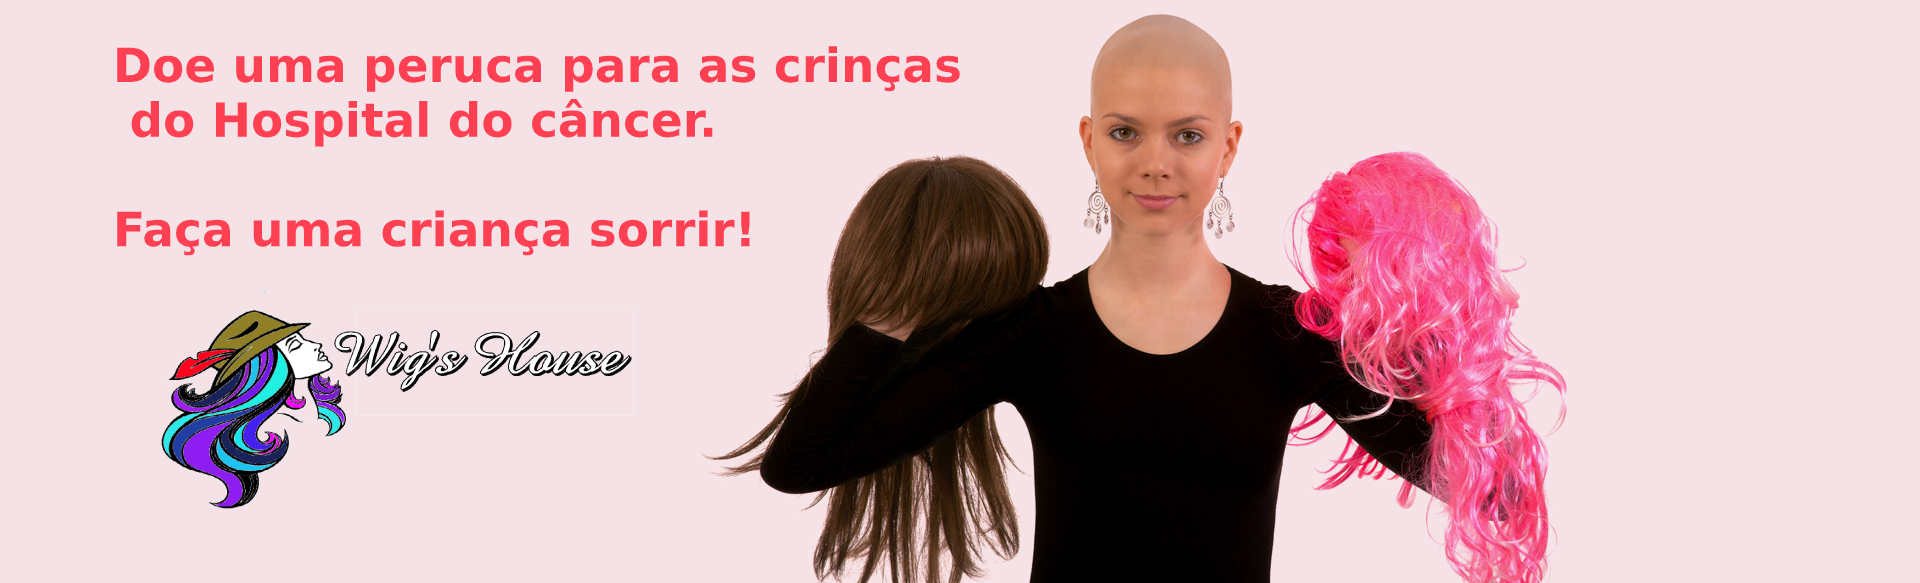
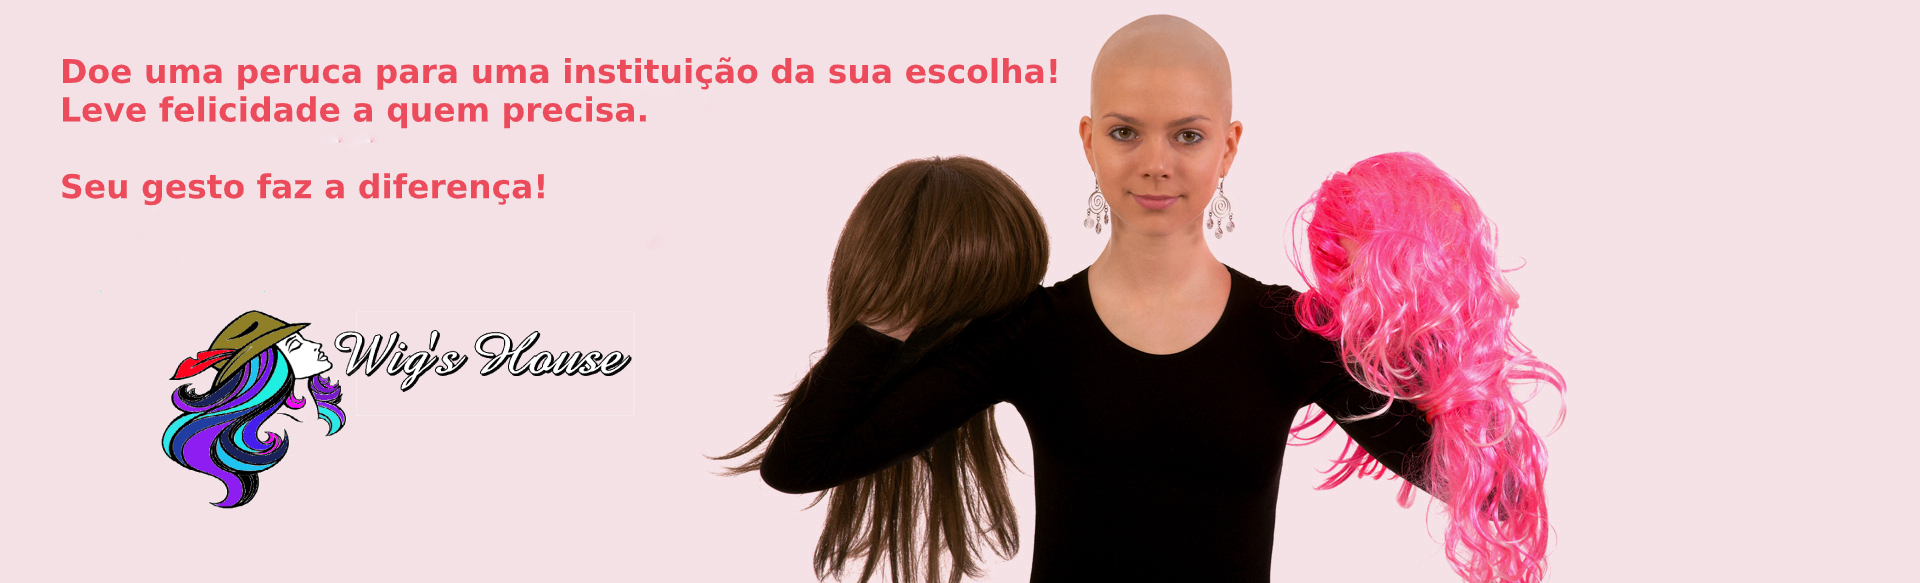
ajustes finais

Changed region(s): [[0.0312, 0.0617, 0.5625, 0.247], [0.0312, 0.2779, 0.4062, 0.4322]]

diff --git a/src/app/components/home/institucional/institucional.component.html b/src/app/components/home/institucional/institucional.component.html
@@ -2,11 +2,11 @@
     <div class="row jumbotron">
         <div id="text" class="col-md-4 col-xs-12 mb-2">
             <strong>Doe uma peruca:</strong><br>
-            <em class="mb-2">Seu gesto pode fazer uma criança sorrir!</em>
+            <em class="mb-2">Seu gesto pode fazer uma pessoa feliz!</em>
             <button class="btn btn-info text-light" routerLink="/pagina-institucional" type="submit">Saiba mais !</button>
         </div>
         <div class="col-md-8 col-xs-12">
-            <img class="img-thumbnail" src="../../../../assets/images/banner_home_mini.jpg" alt="Doar" title="Doe seu cabelo">
+            <img class="img-thumbnail" src="../../../../assets/images/Minibanner_bancoperucas.jpg" alt="Doar" title="Doe seu cabelo">
         </div>
     </div>
 </div>
